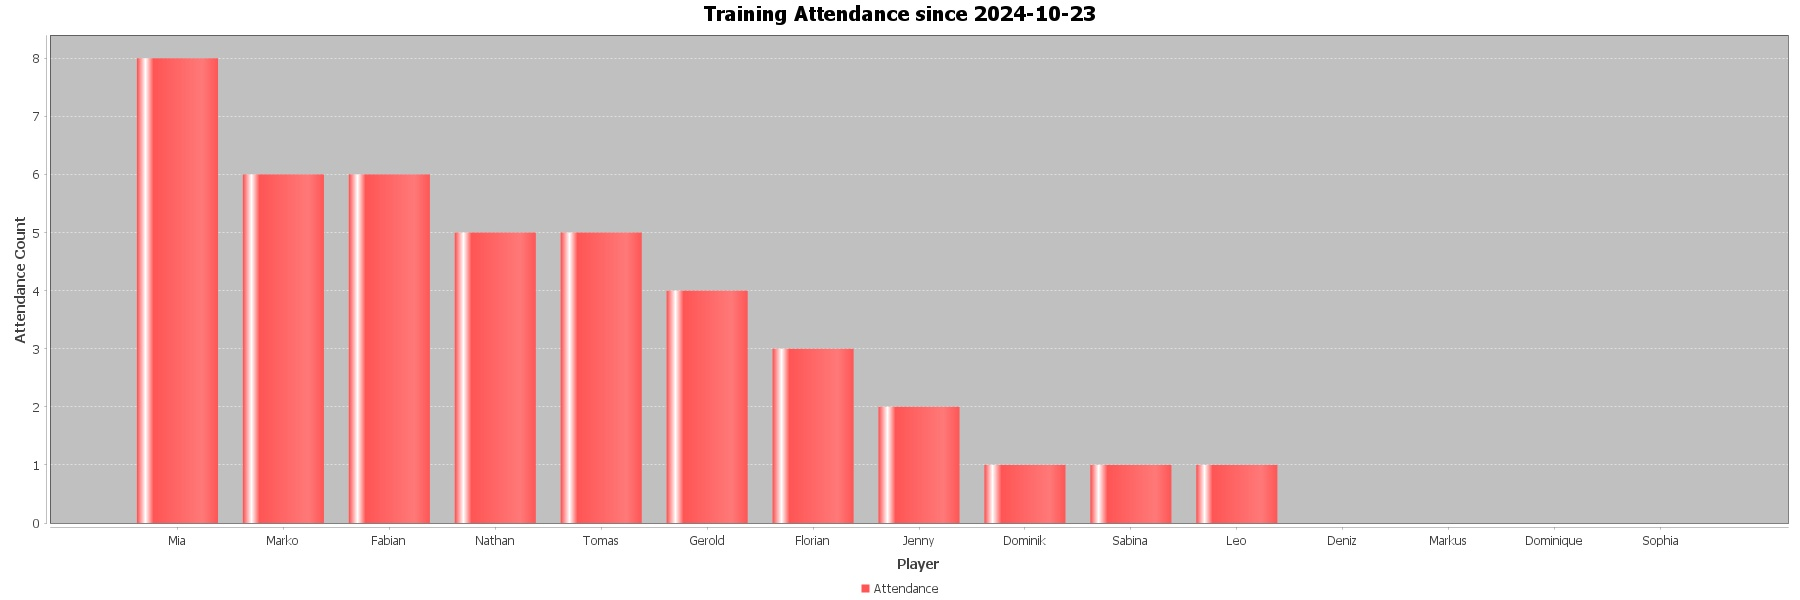
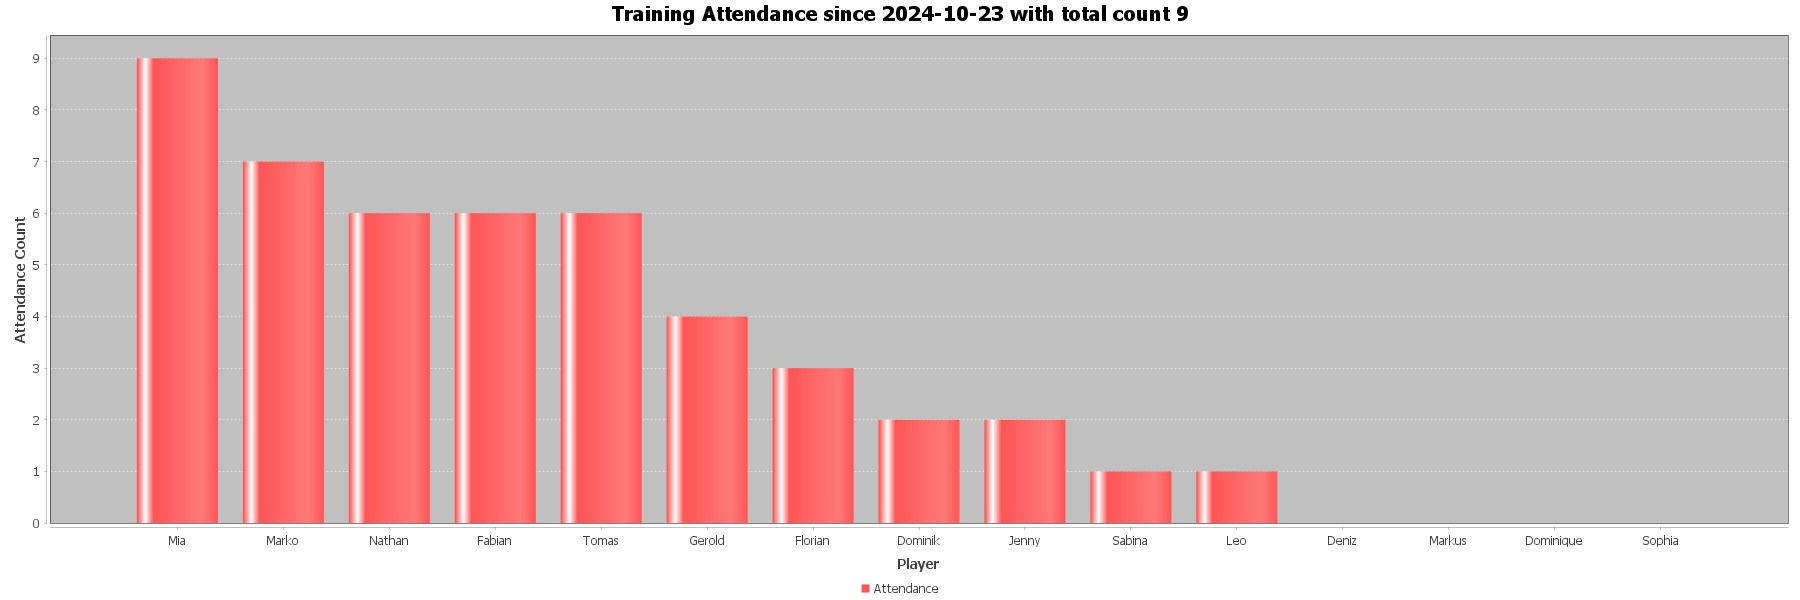
minor update

diff --git a/src/main/java/AttendanceChart.java b/src/main/java/AttendanceChart.java
@@ -1,3 +1,4 @@
+import lombok.Setter;
 import org.jfree.chart.ChartFactory;
 import org.jfree.chart.ChartUtils;
 import org.jfree.chart.JFreeChart;
@@ -12,6 +13,10 @@ import java.util.Map;
 import java.util.stream.Collectors;
 
 public class AttendanceChart {
+
+    @Setter
+    private long trainingCount;
+
 
     public void generateAttendanceChart(Map<String, Integer> attendanceMap) throws IOException {
         // Sort the attendance map by attendance count in descending order
@@ -30,12 +35,12 @@ public class AttendanceChart {
 
         // Populate the dataset with the sorted attendance data
         for (Map.Entry<String, Integer> entry : sortedAttendanceMap.entrySet()) {
-            dataset.addValue(entry.getValue(), "Attendance", entry.getKey());
+            dataset.addValue(entry.getValue()  , "Attendance", entry.getKey());
         }
 
         // Create the bar chart
         JFreeChart barChart = ChartFactory.createBarChart(
-                "Training Attendance since 2024-10-23",
+                "Training Attendance since 2024-10-23 with total count "+trainingCount,
                 "Player",
                 "Attendance Count",
                 dataset
@@ -45,6 +50,7 @@ public class AttendanceChart {
         CategoryPlot plot = barChart.getCategoryPlot();
         NumberAxis yAxis = (NumberAxis) plot.getRangeAxis();
         yAxis.setStandardTickUnits(NumberAxis.createIntegerTickUnits());
+
 
         // Save the chart as a JPEG image
         File chartFile = new File("graphics/player_attendance_chart.jpeg");

diff --git a/src/main/java/DataLoader.java b/src/main/java/DataLoader.java
@@ -9,7 +9,6 @@ import java.util.concurrent.atomic.AtomicInteger;
 
 public class DataLoader {
 
-
     @SneakyThrows
     public static void main(String[] args) {
         Yaml attendance = new Yaml();
@@ -21,9 +20,14 @@ public class DataLoader {
 
         Map<String, Integer> playerTrainings = new HashMap<>();
 
+        long trainingCount = result.stream()
+                .filter(training -> training.get("type").equals("training"))
+                .count();
+
         activePlayers.get("activePlayer").forEach(player -> {
 
             AtomicInteger trainingsCount = new AtomicInteger();
+
 
             result.stream()
                     .filter(training -> training.get("type").equals("training"))
@@ -41,6 +45,7 @@ public class DataLoader {
         printMapSortedByValue(playerTrainings);
 
         AttendanceChart attendanceChart = new AttendanceChart();
+        attendanceChart.setTrainingCount(trainingCount);
         attendanceChart.generateAttendanceChart(playerTrainings);
 
 
@@ -51,7 +56,6 @@ public class DataLoader {
                 .sorted(Map.Entry.<String, Integer>comparingByValue().reversed())
                 .forEach(System.out::println);
     }
-
 
 
 }
